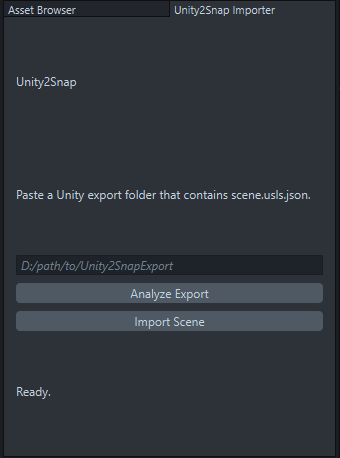
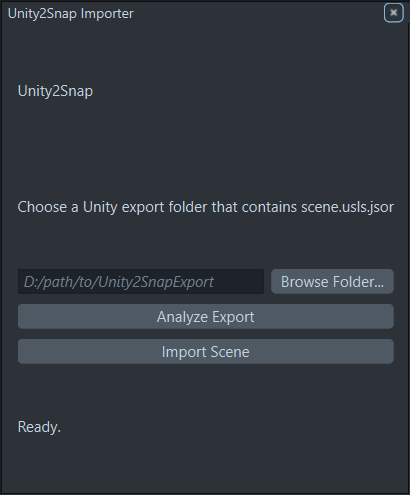
Screenshots and package name updated

diff --git a/README.md b/README.md
@@ -1,4 +1,4 @@
-# Unity2Snap - Import Unity Scenes to Snapchat
+# Unity2Snap - Unity Scenes to LensStudio
 
 ![Unity2Snap poster](media/poster.png)
 
@@ -6,7 +6,7 @@
 [![Unity](https://img.shields.io/badge/Unity-2021.3%2B-black)](UnityPackage/package.json)
 [![Lens Studio](https://img.shields.io/badge/Lens%20Studio-5.x-yellow)](LensStudioPlugin)
 
-Unity2Snap is a bridge for moving Unity scene layout data into Snapchat Lens Studio, with Spectacles projects as the main target.
+Unity2Snap is a bridge for moving Unity scene layout data into Snapchat's Lens Studio, with Spectacles projects as the main target.
 
 The core idea is simple: Unity exports a scene manifest, Lens Studio imports that manifest and rebuilds the scene hierarchy. It does not try to convert Unity gameplay code into Lens Studio scripts.
 
@@ -62,7 +62,8 @@ Unity2Snap/
     USLS_CONTRACT.md
   media/
     poster.png
-    Unity_Package.png
+    analyse_Unity.png
+    export_Unity.png
     Snap_Package.png
   README.md
   CHANGELOG.md
@@ -98,14 +99,31 @@ This repository also includes a root compatibility `package.json` so older local
 
 Export a scene:
 
-![Unity2Snap Unity exporter window](media/Unity_Package.png)
-
 1. Open the Unity scene you want to export.
 2. Go to `Tools > Unity2Snap > Export Active Scene`.
-3. Use the top `Analyze` / `Export` menu to switch panels.
-4. In `Analyze`, click `Analyze Scene` to preview object counts, warnings, and import risks.
-5. In `Export`, choose an output folder, for example `Unity2SnapExport`.
-6. Click `Export Active Scene`.
+3. Use the tabs to switch panels:
+
+<table>
+  <tr>
+    <td width="50%" valign="top">
+      <h3>Analyze Tab</h3>
+      <p>Click <strong>Analyze Scene</strong> to preview object counts, active/inactive states, warnings, and import risks.</p>
+    </td>
+    <td width="50%" valign="top">
+      <h3>Export Tab</h3>
+      <p>Choose an output folder and click <strong>Export Active Scene</strong> to perform the export.</p>
+    </td>
+  </tr>
+  <tr>
+    <td valign="top">
+      <img src="media/analyse_Unity.png" alt="Analyze Tab" width="100%" />
+    </td>
+    <td valign="top">
+      <img src="media/export_Unity.png" alt="Export Tab" width="100%" />
+    </td>
+  </tr>
+</table>
+
 
 Unity writes:
 

diff --git a/CHANGELOG.md b/CHANGELOG.md
@@ -2,7 +2,7 @@
 
 ## 0.1.0 - Initial Public MVP
 
-- Renamed and structured the project as `Unity2Snap - Import Unity Scenes to Snapchat`.
+- Renamed and structured the project as `Unity2Snap - Import Unity Scenes to LensStudio`.
 - Moved the Unity Package Manager package into `UnityPackage/`.
 - Kept the Lens Studio plugin modules in `LensStudioPlugin/`.
 - Added root README, poster media, package screenshots, GitHub install paths, and setup instructions.